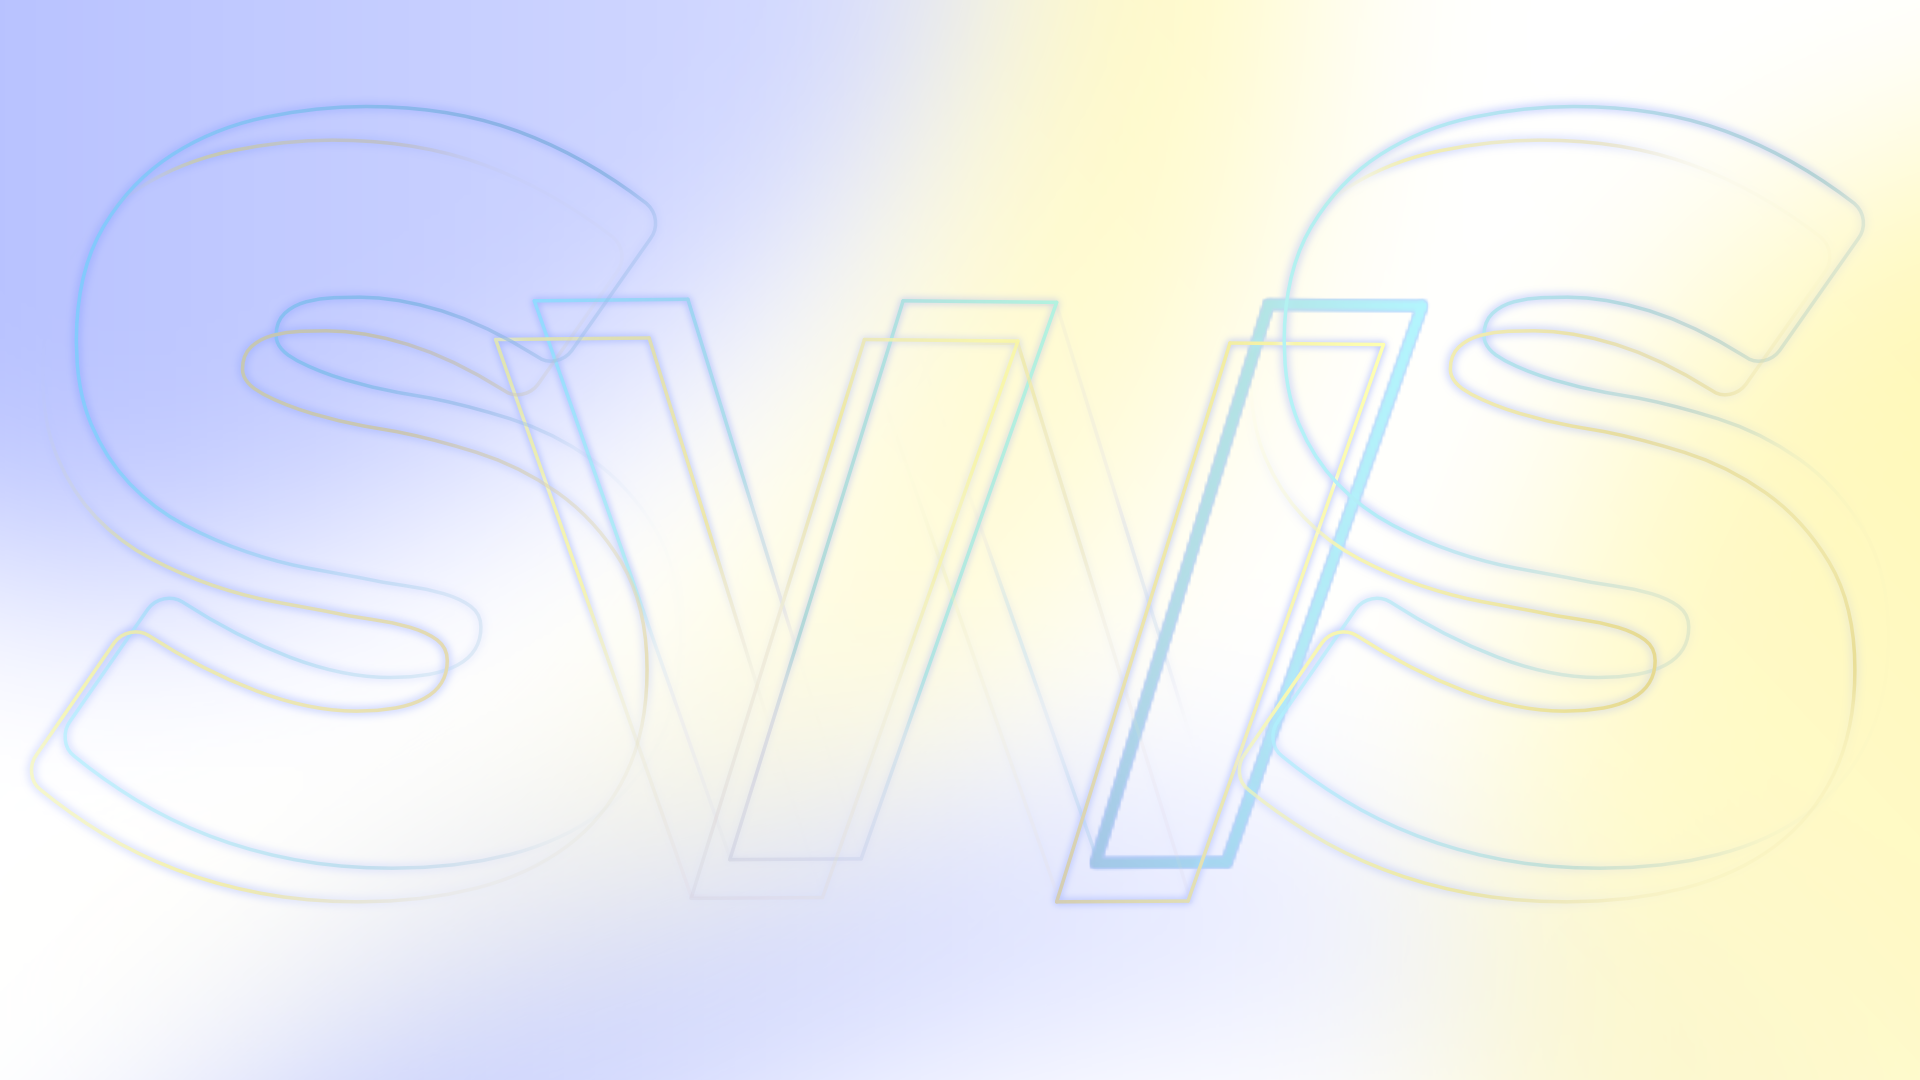
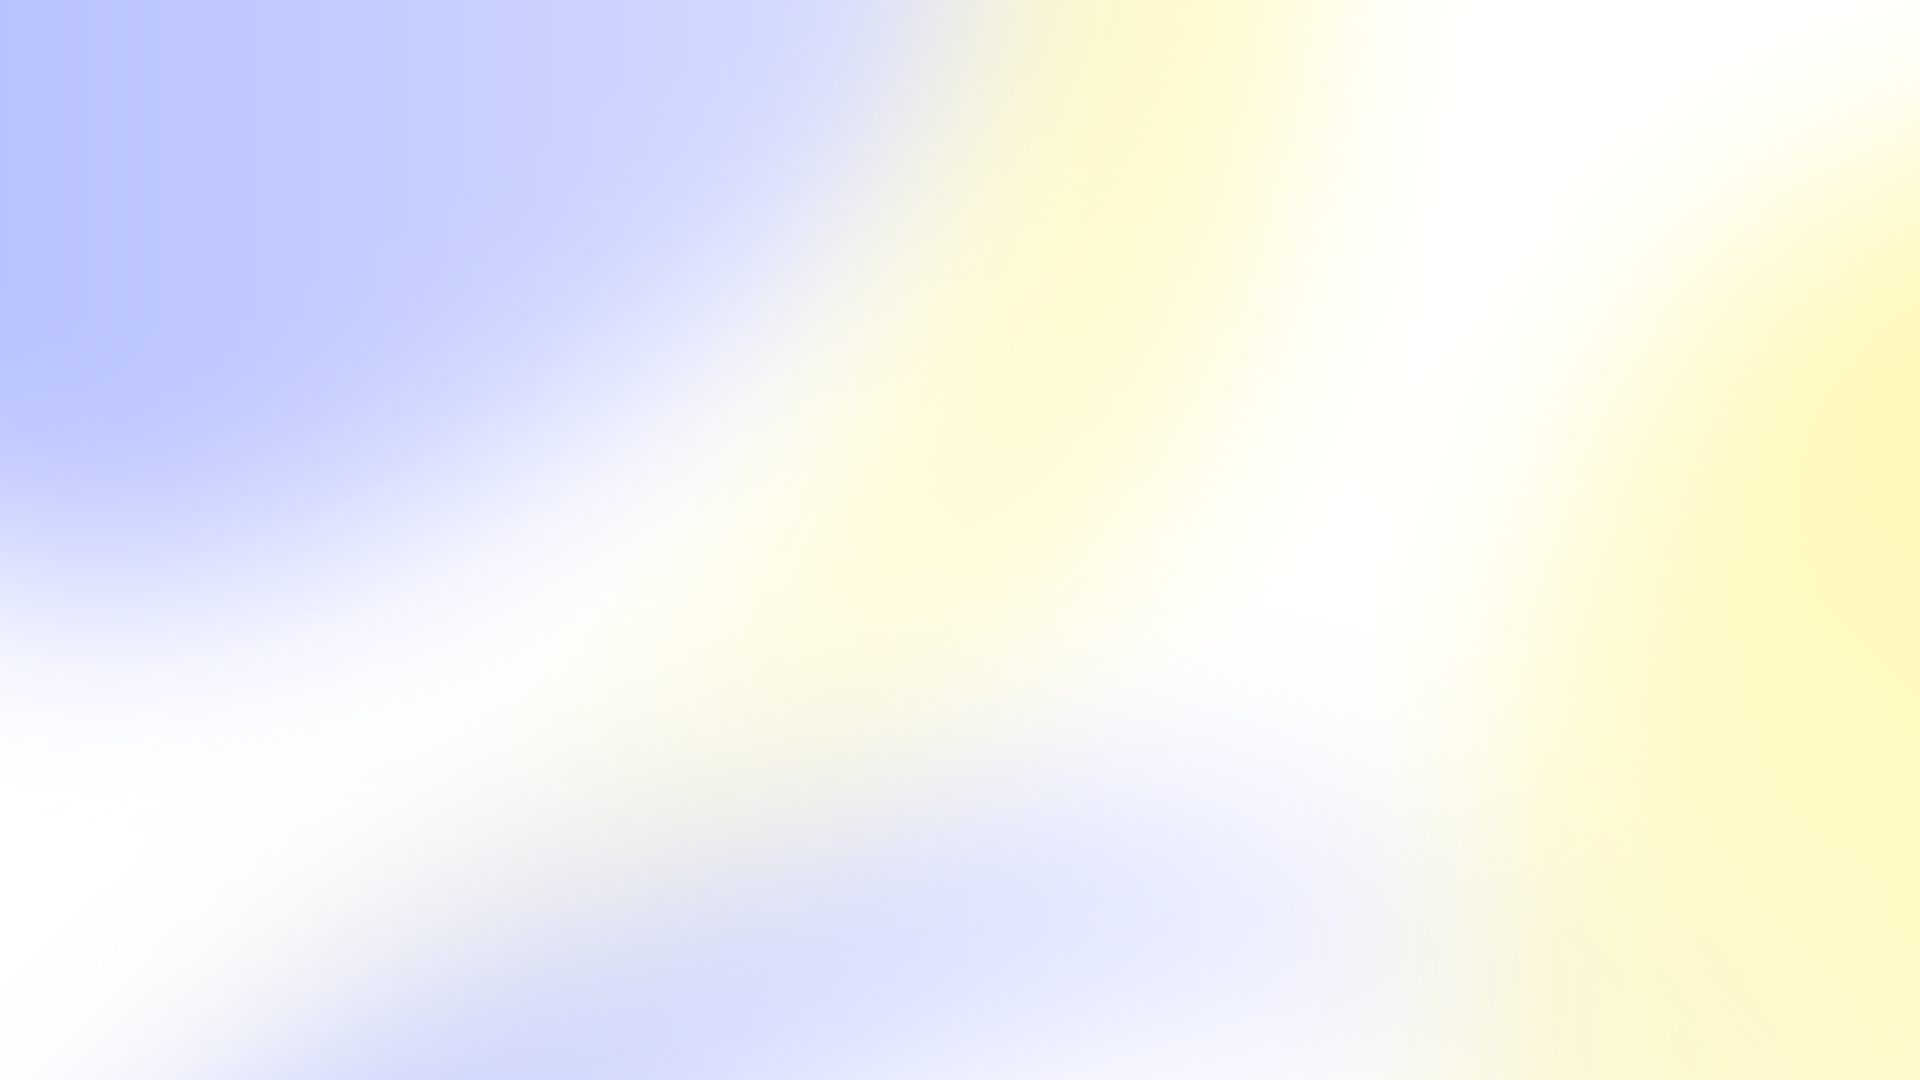
Responsive done ?

diff --git a/index.html b/index.html
@@ -15,19 +15,20 @@
     <link rel="apple-touch-icon" sizes="180x180" href="favicon.ico">
   </head>
   <body>
-    <h3>STUDENT WORKSPACE</h3>
-    <p>CONNEXION</p>
+    <div class="bg-logo">
+        <h3>STUDENT WORKSPACE</h3>
+        <p>CONNEXION</p>
 
-    <div class="container">
-          <label><b>IDENTIFIANT :</b></label>
-          <input type="text" name="username" required>
+        <div class="container">
+              <label><b>IDENTIFIANT :</b></label>
+              <input type="text" name="username" required>
 
-          <label><b>MOT DE PASSE :</b></label>
-          <input type="password" name="password" required>
+              <label><b>MOT DE PASSE :</b></label>
+              <input type="password" name="password" required>
 
-          <input type="submit" value='SE CONNECTER'>
-          <h5>MOT DE PASSE OUBLIÉ ?</h5>
-
+              <input type="submit" value='SE CONNECTER'>
+              <h5>MOT DE PASSE OUBLIÉ ?</h5>
+        </div>
     </div>
   </body>
 </html>

diff --git a/css/theme.css b/css/theme.css
@@ -13,8 +13,29 @@ body{
     background: #EBEBEB;
     background-image: url(../assets/background.png);
     background-repeat: no-repeat;
-    background-position: initial;
-    background-size: cover;
+    background-size: initial;
+}
+
+@media (max-width: 600px) {
+  body {
+    background-position: center;
+  }
+}
+
+.bg-logo{
+    background-image: url(../assets/background2.png);
+    background-repeat: no-repeat;
+    background-position: center;
+    background-size: 100%;
+
+    padding-bottom: 12.5% ;
+}
+
+@media (max-width: 600px) {
+  .bg-logo {
+    background-position: center;
+    background-size: 100%;
+  }
 }
 
 h3 {
